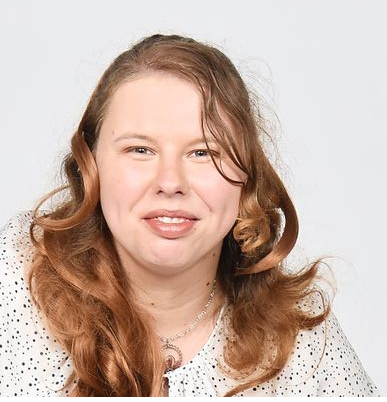
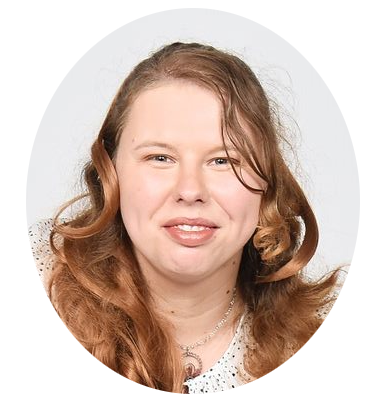
Kompletní předělávka,fixace absolute

diff --git a/index.html b/index.html
@@ -36,29 +36,25 @@ Tip: Webdesign In 4 Minutes https://jgthms.com/web-design-in-4-minutes/
 </head>
 <body>
     <header class="hlavicka">
-   
+        
 </header>
 
   <section id="omne" class="omne">
-   <img class="foto-omne" src="obrazky/foto.png" alt="Foto Lucie Zjanová">
+   <img class="foto-omne" src="obrazky/foto12.png" alt="Foto Lucie Zjanová">
    <h1>Lucie Zjanová</h1>
+   <p>Baví mě informační technologie a ráda se vzdělávám a učím nové věci. Teď se aktuálně zajimám o programování. Ráda bych do budoucna změnila práci a věnovala se programovaní. Na kurz jsem CSS/HTML jsem se přihlásila protože mě nadchnul Cypress. Mám ráda zvířata. Máme doma pejska Montíka. Je to frízský ohař a strašný mazel. Také mám malou dcerušku Leontýnku. Oni dva spolu tvoří skvělý tým. Díky tomu vzniklo spoustu vtipných videí a nezapomenutelných zážitků. </p>
 
-   <p>Baví mě IT a ráda se vzdělávám a učím nové věci. Teď se aktuápně zajimám o programování. Ráda bych do budoucna změnila práci a věnovala se programovaní. Na kurz jsem CSS/HTML jsem se přihlásila protože mě nadchnul Cypress. Mám ráda zvířata. Máme doma pejska Montíka. Je to frízský ohař a strašný mazel. Také mám malou dcerušku Leontýnku. Oni dva spolu tvoří skvělý tým. Díky tomu vzniklo spoustu vtipných videí a nezapomenutelných zážitků. </p>
 </section>
 
 
-
-<section id= "kontakt" class="kontakt"> 
+<section  class="kontakt"> 
    <h2>Kontakt</h2>
-    <ul>
+    <ul class="odkazy"> 
         <li><a href="https://www.linkedin.com/in/lucie-zjanova-262820103">linkedin </a></li>
         <li><a href="mailto:for.kith@gmail.com"> E-mail</a></li> 
     </ul>
 </section>
 
-
-<footer class="paticka">
-    <p>© 2021, Lucie Zjanová</p></footer>
 
 </body>
 </html>

diff --git a/style.css b/style.css
@@ -10,31 +10,85 @@ h1,h2 {
 
 
   font-family: 'Open Sans Condensed', sans-serif;
+  text-align: center;
+ 
+  
 }
 
-
-.foto-omne {
-
-
-  width: 200px;
-  border-radius:50%;
-}
-
-.paticka {
+.omne p {
+background-color:#F5DEB3;
+margin-top:0;
+margin-bottom:0;
+padding-left: 15px;
+padding-right: 15px;
 
 
-  font-family: 'Open Sans', sans-serif;
+
 }
 
 body {
-  line-height: 1.5;
+  position:absolute;
   margin: 0 0 0 0;
-  margin-left:200px;
+  line-height: 1.5;
+ margin-left: 40%;
+ margin-right:42%;
+  
+ 
+  
+  
 }
 
-section p {
+.foto-omne { 
 
-padding-right: 1000px;
-text-align: left;
+ width:269px;
+ display:block;
+ margin-top:2px;
+ margin-bottom:0;
+ padding-bottom:0;
+ padding-top:0;
+
+ 
+ 
 
 }
+
+.omne h1 {
+
+  color:white;
+  background-color: #CD853F;
+  margin-top:0;
+  margin-bottom: 0;
+  padding-top: 5px;
+  padding-bottom:7px;
+  
+  
+  
+  
+
+
+}
+
+.kontakt h2 {
+  color:white;
+  background-color: #CD853F;
+  margin-top:0;
+  margin-bottom:2px;
+  padding-top: 5px;
+  padding-bottom:7px;
+  
+  
+}
+
+.odkazy li{
+  display:inline-block; 
+}
+
+
+.odkazy {
+margin:0;
+padding:0;
+text-align: center;
+
+
+}
+
